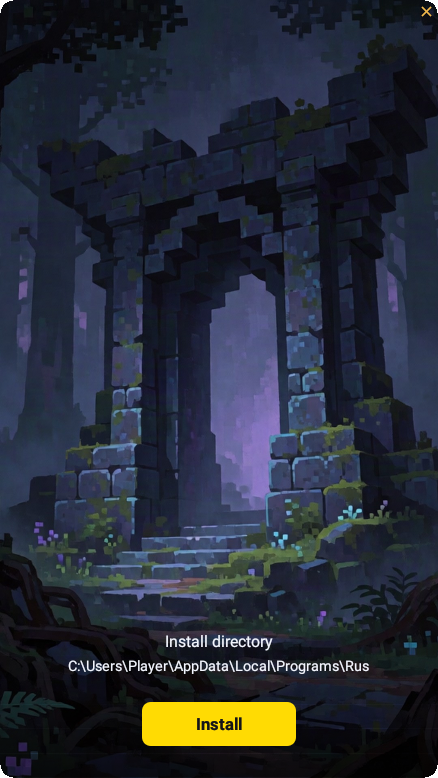
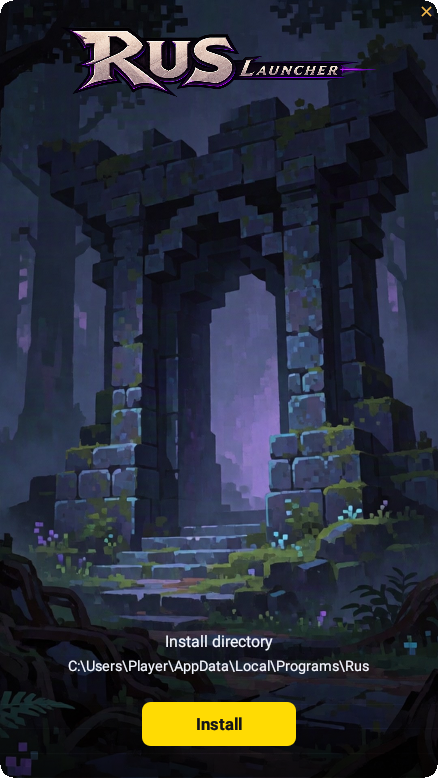
Put the title mark on both gate posters.
The update window uses the open portal. Install and update both show the RUS LAUNCHER mark at the top.

Changed region(s): [[0.1484, 0.0308, 0.8311, 0.1234]]

diff --git a/src/bin/rus-gate.rs b/src/bin/rus-gate.rs
@@ -105,6 +105,7 @@ struct Gate {
     rx: Option<Receiver<Msg>>,
     install_art: Option<egui::TextureHandle>,
     update_art: Option<egui::TextureHandle>,
+    logo: Option<egui::TextureHandle>,
 }
 
 impl Gate {
@@ -113,6 +114,7 @@ impl Gate {
         style_ui(&cc.egui_ctx);
         let install_art = load_art(&cc.egui_ctx, "gate-install", include_bytes!("../../assets/gate-install.jpg"));
         let update_art = load_art(&cc.egui_ctx, "gate-update", include_bytes!("../../assets/gate-update.jpg"));
+        let logo = load_art(&cc.egui_ctx, "gate-logo", include_bytes!("../../assets/rus-logo-title.png"));
         let launch = shot.is_none() && (daily_launcher() || install_dir().is_some());
         let preview = shot.is_some();
         let preview_update = preview && std::env::var("RUS_GATE_PREVIEW").ok().as_deref() == Some("update");
@@ -134,6 +136,7 @@ impl Gate {
             rx: None,
             install_art,
             update_art,
+            logo,
         };
         if launch {
             if let Some(dir) = install_dir() {
@@ -248,6 +251,9 @@ impl Gate {
             paint_cover(ui, art, full);
         }
         paint_bottom_shade(ui.painter(), full);
+        if let Some(logo) = &self.logo {
+            paint_title(ui, logo, full);
+        }
         paint_exit(ui, full);
         match self.mode {
             Mode::Install if !self.working => self.paint_form(ui, full),
@@ -1148,6 +1154,23 @@ fn paint_cover(ui: &mut egui::Ui, tex: &egui::TextureHandle, full: egui::Rect) {
         .uv(uv)
         .corner_radius(egui::CornerRadius::same(radius))
         .paint_at(ui, full);
+}
+
+fn paint_title(ui: &mut egui::Ui, tex: &egui::TextureHandle, full: egui::Rect) {
+    let size = tex.size();
+    let aspect = if size[1] == 0 { 1465.0 / 353.0 } else { size[0] as f32 / size[1] as f32 };
+    let w = (full.width() * 0.74).min(full.width() - 52.0);
+    let h = w / aspect;
+    let rect = egui::Rect::from_min_size(
+        egui::pos2(full.center().x - w * 0.5, full.top() + 22.0),
+        egui::vec2(w, h),
+    );
+    ui.painter().image(
+        tex.id(),
+        rect,
+        egui::Rect::from_min_max(egui::Pos2::ZERO, egui::pos2(1.0, 1.0)),
+        egui::Color32::WHITE,
+    );
 }
 
 fn paint_bottom_shade(painter: &egui::Painter, full: egui::Rect) {

diff --git a/src/product.rs b/src/product.rs
@@ -3,7 +3,7 @@
 //! The line starts at `1.26.3.00`. An update changes the last two digits
 //! until the year or month component is moved on purpose.
 
-pub const VERSION: &str = "1.26.3.17";
+pub const VERSION: &str = "1.26.3.18";
 
 pub fn parse(tag: &str) -> Option<[u32; 4]> {
     let tag = tag.trim().trim_start_matches('v');

diff --git a/README.md b/README.md
@@ -132,7 +132,7 @@ The release is Rus Gate. Download it once.
 
 | Platform | File |
 | --- | --- |
-| Windows | [rus-gate.exe](https://github.com/obsifox/rus/releases/download/1.26.3.17/rus-gate.exe) |
+| Windows | [rus-gate.exe](https://github.com/obsifox/rus/releases/download/1.26.3.18/rus-gate.exe) |
 
 <p align="center">
   <img src="docs/gate.png" alt="Rus Gate, showing the install folder on the blue poster" width="280">
@@ -143,7 +143,7 @@ Run `rus-gate.exe`. The window is vertical, with no title bar. First run shows t
 
 `Rus Launcher.exe` does not show the install step. With a connection it reads **tags**, not the release list, downloads `rus_{version}.exe` from that tag's release, and starts it. With no connection it starts the installed build.
 
-Versions are `{version}.{year}.{month}.{patch}`, starting at `1.26.3.00`. An update changes the last two digits. Current tag: `1.26.3.17`.
+Versions are `{version}.{year}.{month}.{patch}`, starting at `1.26.3.00`. An update changes the last two digits. Current tag: `1.26.3.18`.
 
 Linux builds from source with `cargo build --release`. The published release is the Windows gate.
 
